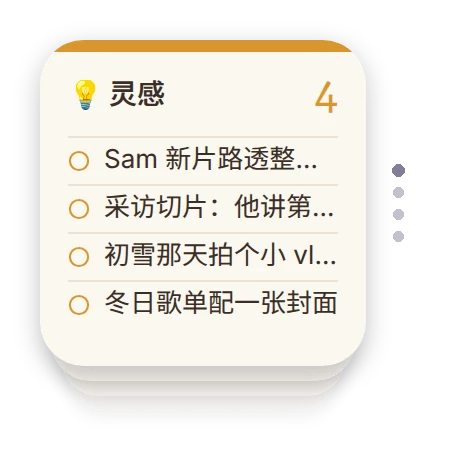
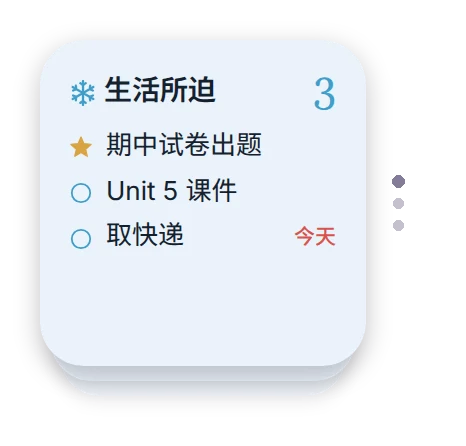
备忘本：三页（生活所迫 / 喜欢的事 / 日更素材）+ 每条带备注和进度记录
- 网页：点开一条是详情——备注（讨论定下来的东西）+ 一笔笔带日期的进度，
  列表上露最近一笔；手机和对话同时记进度时两边都留着
- memo.py：新增 find / show / note / log / style，换个对话也能把项目调出来
- 小组件：认新页名；小号上今天到期 / 过期的标红
- 安装说明页换成三页、去掉 −1 屏的说法；skill 与 CLAUDE.md 跟着改

Claude-Session: https://claude.ai/code/session_01NiEJYC6Yr3pJqjcBRwarTe

diff --git a/memo/index.html b/memo/index.html
@@ -160,6 +160,8 @@
   .chip--hot { background: color-mix(in srgb, var(--c-status-red) 14%, transparent); color: var(--c-status-red); }
   .chip--pin { background: color-mix(in srgb, var(--page) 15%, transparent); color: var(--c-ink-soft); }
   .it__note { min-width: 0; overflow: hidden; text-overflow: ellipsis; white-space: nowrap; max-width: 100%; }
+  .it__peek { flex-basis: 100%; min-width: 0; overflow: hidden; text-overflow: ellipsis; white-space: nowrap; color: var(--c-ink-soft); }
+  .it__peek time { color: var(--c-muted); margin-right: 5px; font-variant-numeric: tabular-nums; }
   .it.is-leaving { animation: leave .38s ease forwards .3s; }
   @keyframes leave { to { opacity: 0; transform: translateX(14px); } }
 
@@ -203,13 +205,28 @@
   .sheet__grip { width: 38px; height: 5px; border-radius: 3px; background: var(--c-line-strong); margin: 0 auto 12px; }
   .sheet h2 { font-family: 'Noto Serif SC', 'Songti SC', serif; font-weight: 600; font-size: 17px; margin: 0 0 12px; }
   .sheet h3 { font-size: 12.5px; font-weight: 500; color: var(--c-muted); letter-spacing: 1px; margin: 18px 0 8px; }
+  .sheet h3 small { font-size: 11.5px; letter-spacing: 0; color: var(--c-muted-soft); font-weight: 400; margin-left: 4px; }
+  .ed-crumb { font-size: 12.5px; color: var(--c-muted); margin: 0 0 8px; }
+  .field--title { font-size: 17px; font-weight: 600; }
+  .logadd { display: flex; gap: 8px; }
+  .logadd input { flex: 1; min-width: 0; border: 1px solid var(--c-line); background: var(--c-bg-soft); border-radius: 12px; padding: 10px 12px; font-size: 16px; outline: none; }
+  .logadd input:focus { border-color: var(--c-accent); background: var(--c-paper); }
+  .logadd button { border: 0; border-radius: 12px; padding: 0 16px; background: var(--c-accent); color: #fff; font-size: 14.5px; }
+  .log { list-style: none; margin: 10px 0 0; padding: 0 0 0 14px; border-left: 2px solid var(--c-line); display: grid; gap: 10px; }
+  .log:empty { display: none; }
+  .log li { position: relative; display: flex; gap: 10px; align-items: baseline; font-size: 14.5px; line-height: 1.55; color: var(--c-ink-soft); }
+  .log li::before { content: ""; position: absolute; left: -20px; top: 7px; width: 8px; height: 8px; border-radius: 50%; background: var(--c-paper); border: 2px solid var(--c-accent); }
+  .log li:first-child::before { background: var(--c-accent); }
+  .log time { flex: 0 0 auto; font-size: 12px; color: var(--c-muted); font-variant-numeric: tabular-nums; min-width: 34px; }
+  .log span { flex: 1; min-width: 0; word-break: break-word; }
+  .log button { flex: 0 0 auto; border: 0; background: none; color: var(--c-muted-soft); padding: 0 2px; font-size: 13px; }
   .field {
     display: block; width: 100%; border: 1px solid var(--c-line); background: var(--c-bg-soft);
     border-radius: 12px; padding: 11px 13px; font-size: 16px; outline: none; resize: none; line-height: 1.5;
   }
   .field:focus { border-color: var(--c-accent); background: var(--c-paper); }
   textarea.field { min-height: 52px; }
-  .field--note { margin-top: 8px; font-size: 15px; min-height: 70px; }
+  .field--note { font-size: 15px; min-height: 96px; }
   .pills { display: flex; flex-wrap: wrap; gap: 6px; }
   .pill {
     border: 1px solid var(--c-line); background: var(--c-bg-soft); border-radius: 999px;
@@ -343,10 +360,18 @@
 
 <!-- 改一条 -->
 <div class="veil" id="veil" hidden></div>
-<div class="sheet" id="edit" role="dialog" aria-modal="true" aria-label="改一条" hidden>
+<div class="sheet" id="edit" role="dialog" aria-modal="true" aria-label="这一条" hidden>
   <div class="sheet__grip"></div>
-  <textarea class="field" id="ed-text" rows="2" placeholder="要记的事"></textarea>
-  <textarea class="field field--note" id="ed-note" rows="3" placeholder="备注（想得更细的写这儿，桌面上不显示）"></textarea>
+  <div class="ed-crumb" id="ed-crumb"></div>
+  <textarea class="field field--title" id="ed-text" rows="1" placeholder="要记的事"></textarea>
+  <h3>备注 <small>想法、跟 Claude 讨论定下来的东西、链接（桌面上不显示）</small></h3>
+  <textarea class="field field--note" id="ed-note" rows="4" placeholder="比如：想做成三分钟以内，配中英字幕；素材先从 2008 年那场采访里挑……"></textarea>
+  <h3>进度 <small id="ed-logn"></small></h3>
+  <form class="logadd" id="ed-logform" autocomplete="off">
+    <input type="text" id="ed-loginput" placeholder="今天做到哪了……" enterkeyhint="done">
+    <button type="submit">记下</button>
+  </form>
+  <ol class="log" id="ed-log"></ol>
   <h3>放在哪一页</h3>
   <div class="pills" id="ed-pages"></div>
   <h3>哪天要办（可以不填）</h3>
@@ -361,8 +386,8 @@
   <div class="sheet__actions">
     <button type="button" class="btn btn--danger" id="ed-del">删掉</button>
     <span style="flex:1"></span>
-    <button type="button" class="btn btn--soft" id="ed-cancel">取消</button>
-    <button type="button" class="btn btn--main" id="ed-ok" style="flex:0 0 96px">好</button>
+    <button type="button" class="btn btn--soft" id="ed-cancel">不改了</button>
+    <button type="button" class="btn btn--main" id="ed-ok" style="flex:0 0 96px">存好</button>
   </div>
 </div>
 
@@ -373,15 +398,15 @@
   <h3>桌面小组件的样子</h3>
   <div class="styles" id="styles">
     <button type="button" class="stycard" data-style="paper">
-      <span class="stycard__w sw--paper"><span class="sw-h">💡 灵感<em>3</em></span><span class="sw-r"><i></i>路透整理成图鉴</span><span class="sw-r"><i></i>采访切片</span><span class="sw-r"><i></i>初雪拍个 vlog</span></span>
+      <span class="stycard__w sw--paper"><span class="sw-h">❣ 喜欢的事<em>3</em></span><span class="sw-r"><i></i>Sam 采访合集</span><span class="sw-r"><i></i>初雪拍个 vlog</span><span class="sw-r"><i></i>冬日歌单封面</span></span>
       便笺
     </button>
     <button type="button" class="stycard" data-style="native">
-      <span class="stycard__w sw--native"><span class="sw-h">💡 灵感<em>3</em></span><span class="sw-r"><i></i>路透整理成图鉴</span><span class="sw-r"><i></i>采访切片</span><span class="sw-r"><i></i>初雪拍个 vlog</span></span>
+      <span class="stycard__w sw--native"><span class="sw-h">❣ 喜欢的事<em>3</em></span><span class="sw-r"><i></i>Sam 采访合集</span><span class="sw-r"><i></i>初雪拍个 vlog</span><span class="sw-r"><i></i>冬日歌单封面</span></span>
       提醒
     </button>
     <button type="button" class="stycard" data-style="snow">
-      <span class="stycard__w sw--snow"><span class="sw-h">❄ 灵感<em>3</em></span><span class="sw-r"><i></i>路透整理成图鉴</span><span class="sw-r"><i></i>采访切片</span><span class="sw-r"><i></i>初雪拍个 vlog</span></span>
+      <span class="stycard__w sw--snow"><span class="sw-h">❄ 喜欢的事<em>3</em></span><span class="sw-r"><i></i>Sam 采访合集</span><span class="sw-r"><i></i>初雪拍个 vlog</span><span class="sw-r"><i></i>冬日歌单封面</span></span>
       晴雪
     </button>
   </div>
@@ -487,12 +512,13 @@
     var out = clone(a);
     var gone = Object.assign({}, a.gone || {});
     Object.keys(b.gone || {}).forEach(function (k) { if (!gone[k] || t(b.gone[k]) > t(gone[k])) gone[k] = b.gone[k]; });
-    var map = {}, order = [];
+    var map = {}, other = {}, order = [];
     (a.items || []).forEach(function (i) { map[i.id] = i; order.push(i.id); });
     (b.items || []).forEach(function (i) {
       var x = map[i.id];
       if (!x) { map[i.id] = i; order.push(i.id); }
-      else if (t(i.updated) > t(x.updated)) map[i.id] = i;
+      else if (t(i.updated) > t(x.updated)) { other[i.id] = x; map[i.id] = i; }
+      else other[i.id] = i;
     });
     var sa = a.settings || {}, sb = b.settings || {};
     out.settings = clone(t(sb.updated) > t(sa.updated) ? sb : sa);
@@ -502,6 +528,14 @@
     out.items = order.filter(function (id) { return !gone[id]; }).map(function (id) {
       var i = clone(map[id]);
       if (!pageIds[i.page] && first) i.page = first;
+      // 进度一笔一笔都有编号：两边各记了几笔，一笔都不丢（删掉的那笔记在 gone 里）
+      var logs = {};
+      (i.log || []).concat(other[id] && other[id].log || []).forEach(function (e) {
+        if (e && !gone[e.id]) logs[e.id || (e.at + e.text)] = e;
+      });
+      var merged = Object.keys(logs).map(function (k) { return clone(logs[k]); })
+        .sort(function (p, q) { return t(p.at) - t(q.at); });
+      if (merged.length) i.log = merged; else delete i.log;
       return i;
     });
     var cutoff = Date.now() - 90 * 864e5;
@@ -636,13 +670,20 @@
   function findItem(id) { return (doc.items || []).filter(function (i) { return i.id === id; })[0]; }
   function takenIds() {
     var m = {};
-    (doc.items || []).forEach(function (i) { m[i.id] = 1; });
+    (doc.items || []).forEach(function (i) {
+      m[i.id] = 1;
+      (i.log || []).forEach(function (e) { if (e.id) m[e.id] = 1; });
+    });
     Object.keys(doc.gone || {}).forEach(function (k) { m[k] = 1; });
     pages().forEach(function (p) { m[p.id] = 1; });
     return m;
   }
   function short(s) { s = String(s); return s.length > 14 ? s.slice(0, 13) + "…" : s; }
 
+  function md(iso) {
+    var d = new Date(t(iso));
+    return isNaN(d) ? "" : (d.getMonth() + 1) + "/" + d.getDate();
+  }
   function ymd(d) { return d.getFullYear() + "-" + ("0" + (d.getMonth() + 1)).slice(-2) + "-" + ("0" + d.getDate()).slice(-2); }
   function dueInfo(due) {
     var m = String(due || "").match(/^(\d{4})-(\d{2})-(\d{2})/);
@@ -785,7 +826,14 @@
       var d = dueInfo(i.due);
       if (d) meta.appendChild(el("span", "chip" + (d.hot ? " chip--hot" : ""), d.text));
     }
-    if (i.note) meta.appendChild(el("span", "it__note", "✎ " + i.note.replace(/\s+/g, " ")));
+    var lastLog = (i.log || [])[i.log ? i.log.length - 1 : 0];
+    if (lastLog) {
+      if (!isDone) meta.appendChild(el("span", "chip", "进度 " + i.log.length));
+      var pk = el("span", "it__peek");
+      pk.appendChild(el("time", null, md(lastLog.at)));
+      pk.appendChild(document.createTextNode(lastLog.text));
+      meta.appendChild(pk);
+    } else if (i.note) meta.appendChild(el("span", "it__note", "✎ " + i.note.replace(/\s+/g, " ")));
     m.appendChild(meta);
     m.onclick = function () { openEdit(i.id); };
     li.appendChild(c);
@@ -894,7 +942,12 @@
     $("ed-text").value = it.text;
     $("ed-note").value = it.note || "";
     $("ed-due").value = edit.due;
+    $("ed-loginput").value = "";
+    var pg = pageById(it.page) || {};
+    $("ed-crumb").textContent = (pg.emoji ? pg.emoji + " " : "") + (pg.name || "") + " · " + md(it.created) + " 记的" +
+      (it.done ? " · " + md(it.doneAt || it.updated) + " 做完" : "");
     paintEdit();
+    paintLog();
     openSheet("edit");
     autoGrow($("ed-text"));
     autoGrow($("ed-note"));
@@ -929,6 +982,47 @@
   $("ed-due").onchange = function () { edit.due = this.value || ""; paintEdit(); };
   $("ed-pin").onclick = function () { edit.pin = !edit.pin; paintEdit(); };
   $("ed-top").onclick = function () { edit.top = !edit.top; paintEdit(); };
+  function paintLog() {
+    var it = findItem(editingId), box = $("ed-log");
+    box.innerHTML = "";
+    var log = (it && it.log) || [];
+    $("ed-logn").textContent = log.length ? log.length + " 笔，新的在上面" : "还没记过——做到哪了就写一笔，带日期存着";
+    log.slice().reverse().forEach(function (e) {
+      var li = el("li");
+      li.appendChild(el("time", null, md(e.at)));
+      li.appendChild(el("span", null, e.text));
+      var x = el("button", null, "✕");
+      x.type = "button";
+      x.setAttribute("aria-label", "删掉这一笔");
+      x.onclick = function () {
+        if (!confirm("删掉这一笔进度？")) return;
+        var cur = findItem(editingId);
+        if (!cur) return;
+        cur.log = (cur.log || []).filter(function (y) { return y.id !== e.id; });
+        if (!cur.log.length) delete cur.log;
+        doc.gone = doc.gone || {};
+        if (e.id) doc.gone[e.id] = nowIso();
+        cur.updated = nowIso();
+        touch("「" + short(cur.text) + "」删一笔进度");
+        paintLog();
+      };
+      li.appendChild(x);
+      box.appendChild(li);
+    });
+  }
+  $("ed-logform").onsubmit = function (e) {
+    e.preventDefault();
+    var v = $("ed-loginput").value.trim(), it = findItem(editingId);
+    if (!v || !it) return;
+    var stamp = nowIso();
+    it.log = it.log || [];
+    it.log.push({ id: uid(takenIds()), at: stamp, text: v });
+    it.updated = stamp;
+    $("ed-loginput").value = "";
+    touch("「" + short(it.text) + "」记一笔进度");
+    paintLog();
+    toast("记下了 · 进度存好了");
+  };
   $("ed-cancel").onclick = closeSheets;
   $("ed-ok").onclick = function () {
     var it = findItem(editingId);

diff --git a/memo/widget/index.html b/memo/widget/index.html
@@ -98,8 +98,8 @@
     <div class="eyebrow">Memo Widget</div>
     <h1>On the Home Screen<b>备忘本 · 桌面小组件</b></h1>
   </div>
-  <p class="lede">一页一个小组件，叠成一摞放在桌面上，<br>往上一滑就翻页；点一下，就去备忘本里改。</p>
-  <img class="pic" src="stack.webp" alt="四页叠成一摞的小组件，最上面是「灵感」" width="476" height="466">
+  <p class="lede">一页一个小组件，叠成一摞放在桌面上，<br>往上一滑就翻页；点一下，就去备忘本里看全文。</p>
+  <img class="pic" src="stack.webp" alt="三页叠成一摞的小组件，最上面是「生活所迫」" width="466" height="446">
 
   <ol class="steps">
     <li>
@@ -120,28 +120,28 @@
     </li>
     <li>
       <h3>告诉它显示哪一页</h3>
-      <p>长按刚放好的小组件 → <kbd>编辑小组件</kbd>：<b>Script</b> 选「冬的备忘本」，<b>Parameter</b> 填<b>「工作」</b>。其余不用管。</p>
+      <p>长按刚放好的小组件 → <kbd>编辑小组件</kbd>：<b>Script</b> 选「冬的备忘本」，<b>Parameter</b> 填<b>「生活所迫」</b>。其余不用管。</p>
     </li>
     <li>
       <h3>叠成一摞，就能翻页</h3>
-      <p>照第 3、4 步再加一个小号，Parameter 填<b>「灵感」</b>，然后<b>按住它拖到第一个上面</b>，松手——两个就叠在一起了。再照样加<b>「Sam」</b>和<b>「生活」</b>。以后在那个位置<b>往上一滑</b>就是下一页。</p>
+      <p>照第 3、4 步再加一个小号，Parameter 填<b>「喜欢的事」</b>，然后<b>按住它拖到第一个上面</b>，松手——两个就叠在一起了。再照样加一个<b>「日更素材」</b>。以后在那个位置<b>往上一滑</b>就是下一页。</p>
       <p>想让它老老实实停在你翻到的那页：长按这一摞 → <kbd>编辑叠放</kbd> → 把<b>「智能轮换」</b>和<b>「小组件建议」</b>都关掉。</p>
     </li>
     <li>
       <h3>别的摆法（随你）</h3>
       <div class="table">
         <div><span>Parameter 空着</span><span>总览：每页一行，各显示头一条和条数</span></div>
-        <div><span>填一页的名字</span><span>只显示这一页（小号最多四条，中号能分两栏放八条）</span></div>
-        <div><span>中号填「工作,生活」</span><span>两页并排</span></div>
-        <div><span>大号空着</span><span>四页一起看——放在 −1 屏正合适</span></div>
+        <div><span>填一页的名字</span><span>只显示这一页（小号最多四条，中号能分两栏放八条）。简称也认：「生活」「喜欢」「日更」</span></div>
+        <div><span>中号填「生活所迫,日更」</span><span>两页并排</span></div>
+        <div><span>大号空着</span><span>三页一起铺开</span></div>
       </div>
     </li>
   </ol>
 
   <div class="note">
-    ✎ 样子（便笺 / 提醒 / 晴雪）在备忘本右上角的⚙「设置」里换，不用动这里的代码。<br>
+    ✎ 桌面上只露一句话的摘要；点开一条，里面有备注和一笔笔带日期的进度。样子（便笺 / 提醒 / 晴雪）在右上角⚙「设置」里换。<br>
     ⏱ 改完之后小组件不是马上变：什么时候刷新由 iPhone 决定，一般十几分钟到半小时。点开小组件去备忘本里看，永远是最新的。<br>
-    💬 在对话里跟 Claude 说「记一下……」「……做完了」，也会直接写进同一本。
+    💬 在 Claude Code 的对话里说「记一下……」「……做到哪了」「我之前说的那个视频是什么来着」，都会写进 / 查这同一本，开新对话也一样。
   </div>
 
   <div class="foot">a small notebook, kept by 冬璇</div>

diff --git a/memo/widget/winter-memo.js b/memo/widget/winter-memo.js
@@ -7,8 +7,8 @@
 //  这个小组件显示哪几页，由小组件的「参数」决定
 //  （长按小组件 → 编辑小组件 → Parameter）：
 //    （空着）      → 总览：每页一行
-//    工作          → 只显示「工作」这一页（填页名，或 idea / sam / work / life）
-//    工作,生活      → 中号、大号里并排显示这两页
+//    生活所迫       → 只显示这一页（填页名就行，「生活」「喜欢」「日更」这种简称也认）
+//    生活所迫,日更   → 中号、大号里并排显示这两页
 //  想「翻页」：几个同样大小的小组件叠成一摞（拖一个到另一个上面松手），
 //  每个填一页，往上一滑就是下一页。
 //  样式（便笺 / 提醒 / 晴雪）在备忘本网页的「设置」里换，不用改这里。
@@ -112,10 +112,9 @@ async function loadMemo() {
 
 // ── 整理：哪几页、每页哪些条目 ─────────────────────────────────
 const ALIASES = {
-  idea: ["灵感", "点子", "想法", "视频", "帖子", "idea"],
-  sam: ["sam", "山姆"],
-  work: ["工作", "上班", "work"],
-  life: ["生活", "日常", "life"],
+  chore: ["生活所迫", "生活", "琐事", "工作", "chore"],
+  love: ["喜欢的事", "喜欢", "sam", "山姆", "灵感", "项目", "love"],
+  daily: ["日更", "日更素材", "素材", "近期", "daily"],
 };
 
 function findPage(pages, word) {
@@ -245,7 +244,9 @@ function addItemRow(parent, st, page, item, f, showDue) {
   t.lineLimit = 1;
   t.minimumScaleFactor = 0.85;   // 长一点的先缩小一丁点，实在放不下再截成「…」
   r.addSpacer();
-  const due = showDue ? dueLabel(item.due) : null;
+  // 小号放不下日期，只把今天到期 / 已经过期的红字露出来
+  const lab = dueLabel(item.due);
+  const due = (showDue === true || (showDue === "hot" && lab && lab.hot)) ? lab : null;
   if (due) {
     r.addSpacer(4);
     const d = r.addText(due.text);
@@ -400,7 +401,7 @@ function buildSmall(w, st, data, pages, stale) {
     w.url = pageUrl(p);
     addBand(w, st, p);
     const b = body(w, st, st.band ? [10, 14, 12, 14] : [14, 15, 13, 15]);
-    addPageBlock(b, st, data, p, f, st.rows.small, { stale: stale, bigEmpty: true });
+    addPageBlock(b, st, data, p, f, st.rows.small, { stale: stale, bigEmpty: true, due: "hot" });
     b.addSpacer();
   } else {
     w.url = pageUrl(null);
